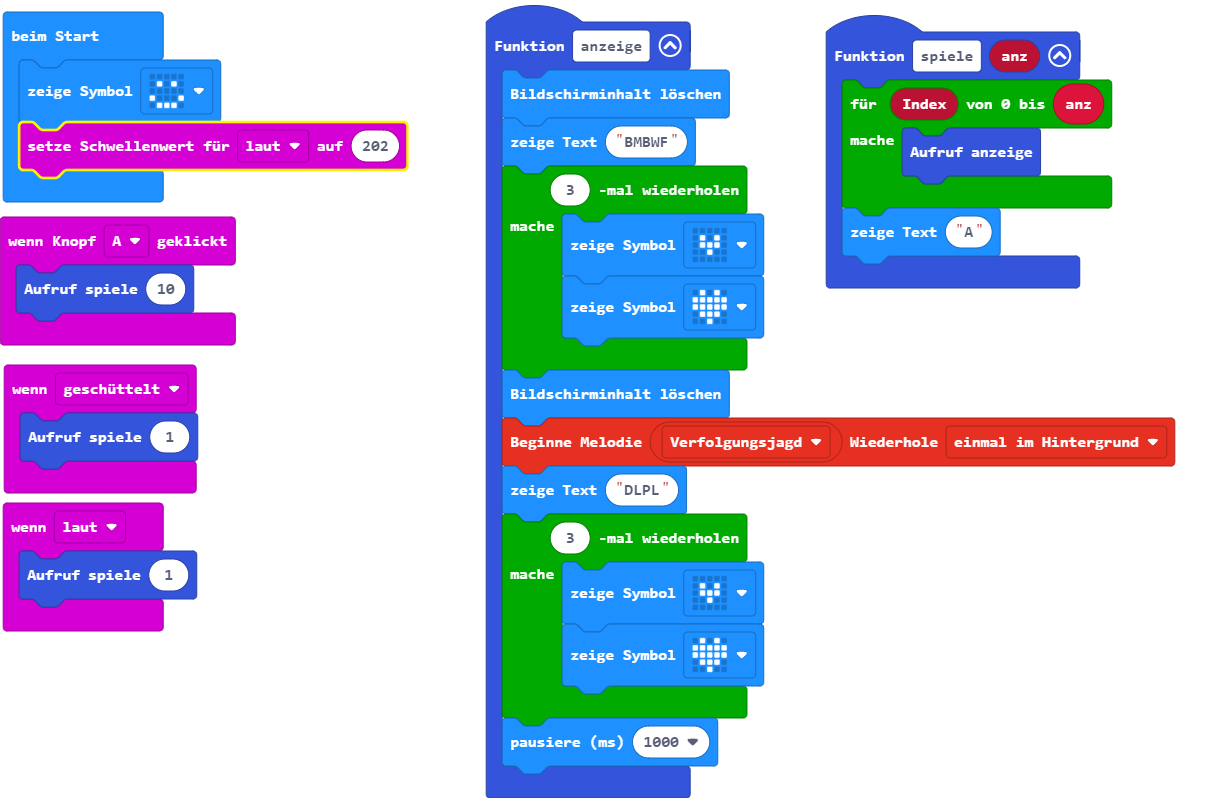
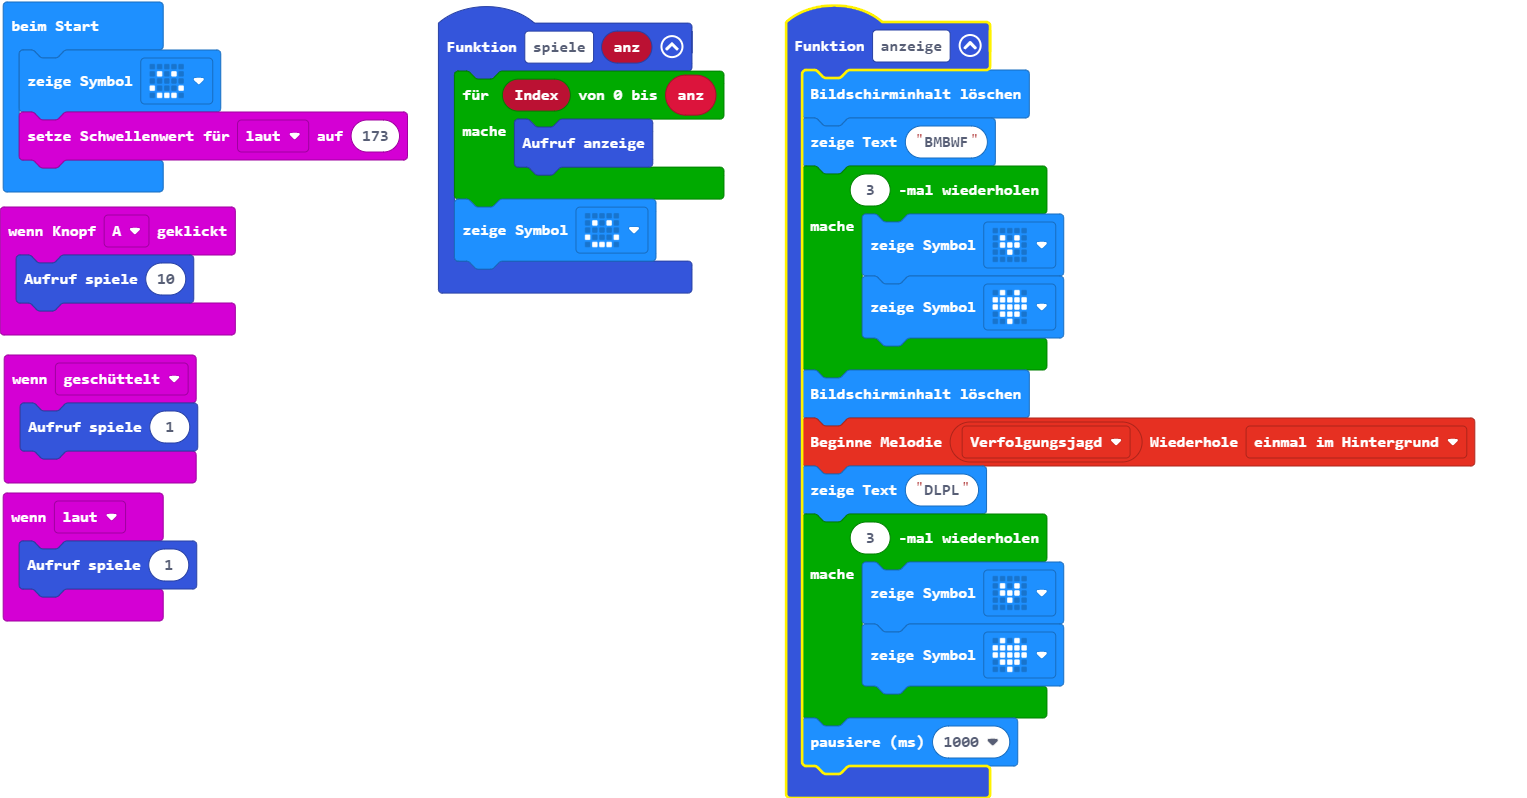
Aktualisiere main.blocks, main.ts

diff --git a/main.ts b/main.ts
@@ -2,7 +2,7 @@ function spiele (anz: number) {
     for (let Index = 0; Index <= anz; Index++) {
         anzeige()
     }
-    basic.showString("A")
+    basic.showIcon(IconNames.Happy)
 }
 input.onSound(DetectedSound.Loud, function () {
     spiele(1)
@@ -30,4 +30,4 @@ function anzeige () {
     basic.pause(1000)
 }
 basic.showIcon(IconNames.Happy)
-input.setSoundThreshold(SoundThreshold.Loud, 202)
+input.setSoundThreshold(SoundThreshold.Loud, 173)
